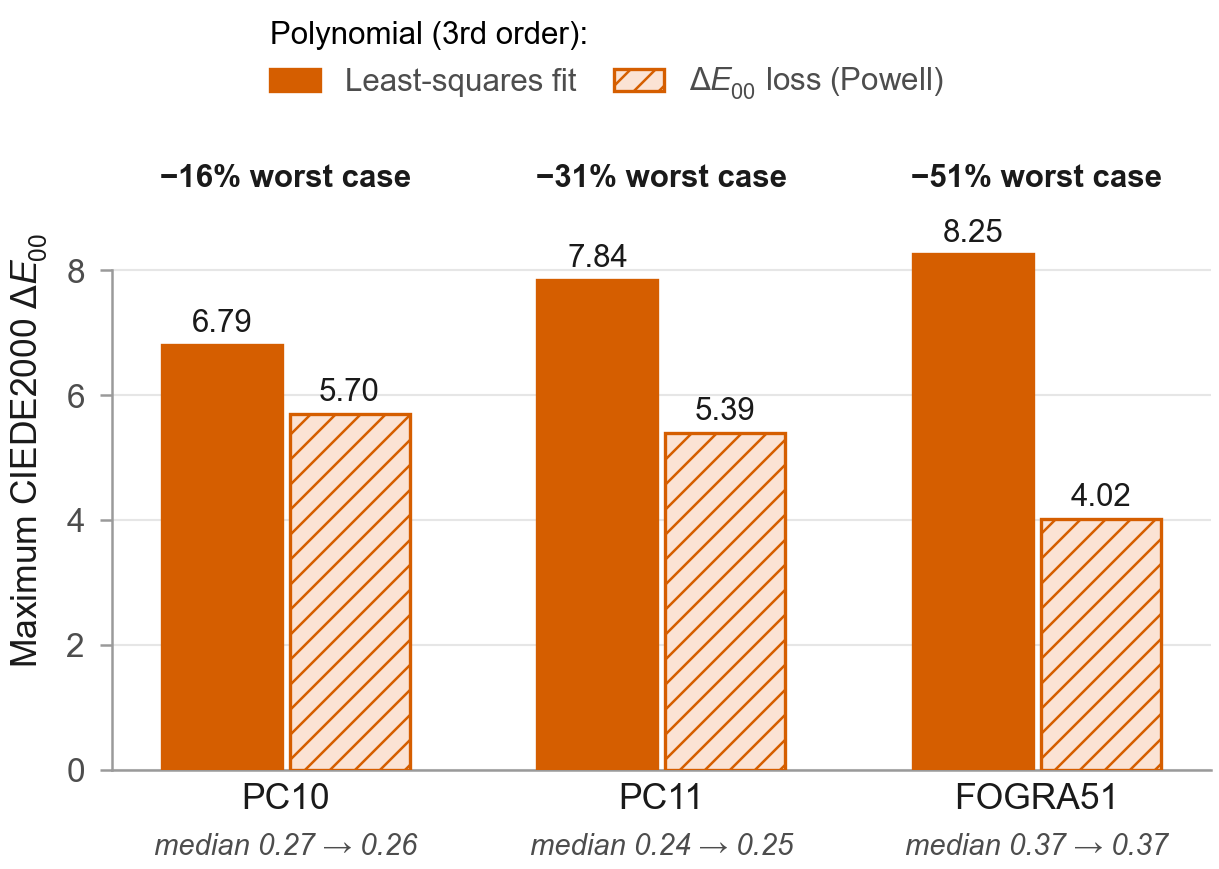
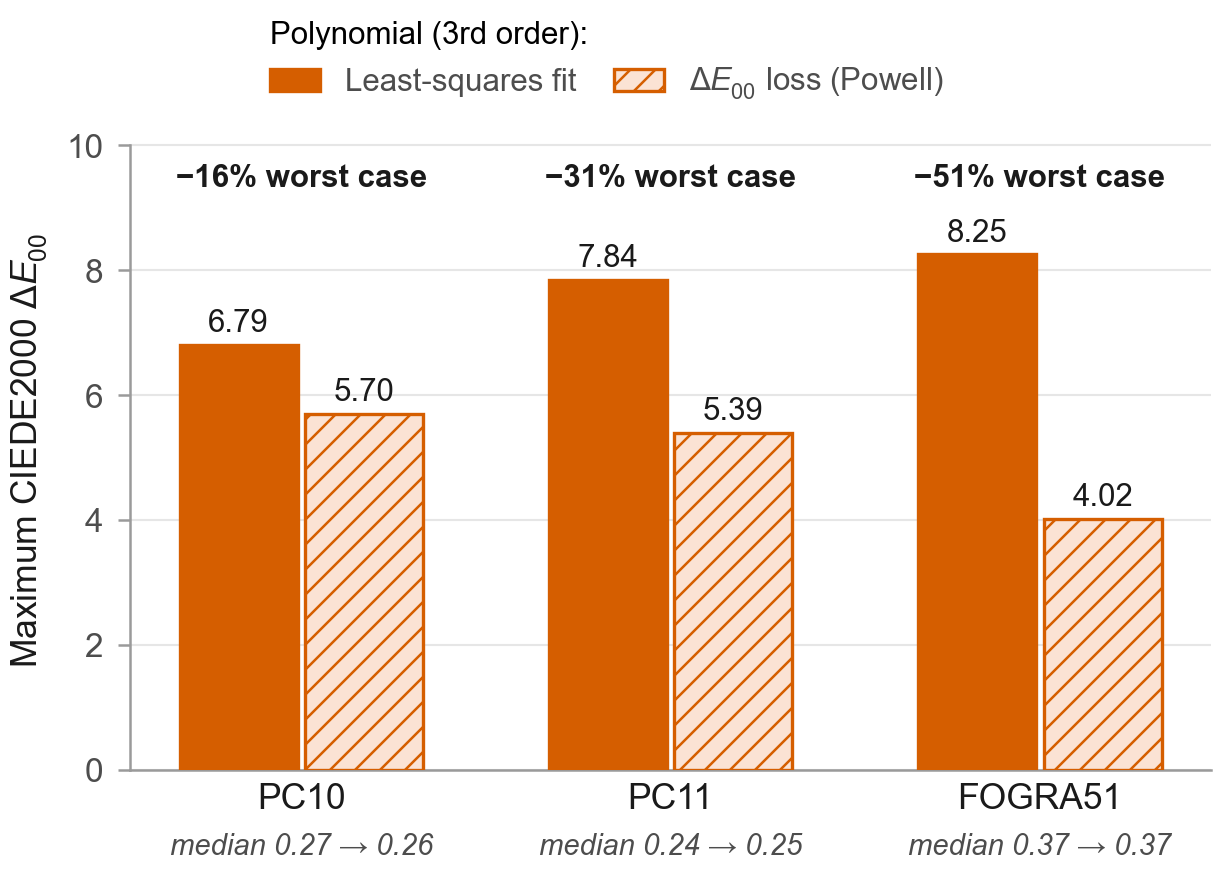
Round 2: address primary review of the experiment code
Restricted datasets' fold files carry row position and fold only (no recipe groups). Learned values count the polynomial as its coefficient matrix and no model's scalers, so poly4 is 990 everywhere. Nelder-Mead's budget-capped success flag is no longer reported as convergence. The newsprint script states that the same-title comparison is one pair. Tables keep three significant figures within the CSV's precision; the loss figure's axis follows the data; REPRODUCE.md lists every command. The discarded non-idle footprint run is removed.

diff --git a/journal/pipeline/revision_r2.py b/journal/pipeline/revision_r2.py
@@ -14,10 +14,10 @@ Starts (coefficient vector w0 handed to scipy.optimize.minimize):
   nXXsK    ols * (1 + XX/100 * N(0,1)), elementwise, noise seed K (XX in 01, 05, 10; K in 0..2)
   zero     all coefficients zero (a naive start with no least-squares information)
 
-Budgets are the paper's: Powell maxiter=200; Nelder-Mead gets exactly the objective
+Budgets are the paper's: Powell maxiter=200; Nelder-Mead gets at most the objective
 evaluations the OLS-start Powell fit used in the same fold in revision R1
 (journal/results/revision_r1/optim_folds/<dataset>__fold<i>.json), so every start
-of one fold runs Nelder-Mead on the same budget.
+of one fold runs Nelder-Mead on the same budget (scipy stops at, in practice exactly at, maxfev).
 
 Outputs under journal/results/revision_r2/seeds/:
   jobs/<dataset>__f<i>__<start>__<method>.csv   idx, de00 (that fold's test samples)
@@ -150,7 +150,9 @@ def cmd_seeds_merge(args):
                              'seconds_total': round(sum(i['seconds'] for i in infos), 1),
                              'seconds_max_fold': round(max(i['seconds'] for i in infos), 1),
                              'nfev_mean': round(float(np.mean([i['nfev'] for i in infos])), 0),
-                             'folds_converged': sum(i['success'] for i in infos),
+                             # Nelder-Mead is budget-capped by design, so its scipy 'success' flag is
+                             # not a convergence test; reported for Powell only
+                             'folds_converged': (sum(i['success'] for i in infos) if m == 'powell' else ''),
                              'train_obj_end_mean': round(float(np.mean([i['train_obj_end'] for i in infos])), 4),
                              'train_obj_ols_mean': round(float(np.mean([i['train_obj_ols'] for i in infos])), 4)})
     pd.DataFrame(rows).to_csv(OUT / 'summary.csv', index=False)
@@ -188,16 +190,18 @@ def cmd_folds(args):
         if d in PUBLIC_IDS:
             rows['SAMPLE_ID'] = df['SAMPLE_ID'].to_numpy()
         rows['fold'] = fold
-        if groups is not None:
-            rows['recipe_group'] = groups
+        if groups is not None and d in PUBLIC_IDS:
+            rows['recipe_group'] = groups   # restricted sets: row position and fold only
         pd.DataFrame(rows).to_csv(out / f'{d}.csv', index=False)
         print(f'{d:13s} n={len(X):5d} folds={np.bincount(fold).tolist()} '
               f'{"grouped" if groups is not None else "seeded KFold"}', flush=True)
 
 
 def cmd_ifra_pairs(args):
-    """Reviewer 2 point 2: what the 13 newsprint runs are, and how much of the
-    cross-run error is press-to-press difference. Uses only what the data record:
+    """Reviewer 2 point 2: what the 13 newsprint runs are, and whether the
+    cross-run error is already present in the measured data (model-free).
+    Only one title has two runs, so the same-title rows are a single pair:
+    indicative, not a category statistic. Uses only what the data record:
     the raw file headers (chart, instrument, creation date) and the file names
     (one newspaper title per run, one title, TagesA, present twice).
 
@@ -218,11 +222,11 @@ def cmd_ifra_pairs(args):
             head = z.read(name).decode('latin-1').split('BEGIN_DATA\n')[0]
             field = lambda k: (re.search(rf'^{k}\s+"?([^"\n]*)"?', head, re.M) or [None, ''])[1].strip()
             stem = name.replace('.txt', '')
+            # PRINT_CONDITIONS is empty in all 13 headers, so it is not exported
             runs.append({'run': f'IFRA-wb-{stem}-CMYK', 'title': stem.split('_')[0],
                          'created': field('CREATED').split('"')[0].strip(),
                          'instrument': field('INSTRUMENTATION'),
-                         'chart': head.splitlines()[0].strip(),
-                         'print_conditions': field('PRINT_CONDITIONS')})
+                         'chart': head.splitlines()[0].strip()})
     runs = pd.DataFrame(runs)
     runs.to_csv(out / 'runs.csv', index=False)
     title = dict(zip(runs.run, runs.title))

diff --git a/journal/pipeline/revision_r2_footprint.py b/journal/pipeline/revision_r2_footprint.py
@@ -76,12 +76,14 @@ def _strip(obj, seen=None):
     for k in ('factory', 'build', 'grid', 'inner_scores_'):
         if k in obj.__dict__:
             obj.__dict__[k] = None
-    for v in list(obj.__dict__.values()):
+    def walk(v):
         if hasattr(v, '__dict__'):
             _strip(v, seen)
         elif isinstance(v, (list, tuple)):
             for x in v:
-                _strip(x, seen)
+                walk(x)
+    for v in list(obj.__dict__.values()):
+        walk(v)
     return obj
 
 
@@ -112,7 +114,13 @@ def learned_values(model) -> int:
     from sklearn.tree import DecisionTreeRegressor
     m = model
     if isinstance(m, Pipeline):
-        return sum(learned_values(s) for _, s in m.steps)
+        steps = [s for _, s in m.steps]
+        if (len(steps) == 2 and isinstance(steps[0], PolynomialFeatures) and steps[0].include_bias
+                and isinstance(steps[1], LinearRegression)):
+            # the bias column's coefficient and the intercept are one number per channel:
+            # the deployable polynomial is the n_terms x 3 coefficient matrix
+            return int(steps[1].coef_.size)
+        return sum(learned_values(s) for s in steps)
     if isinstance(m, PolynomialFeatures):
         return 0                                   # exponents are implied by the degree
     if isinstance(m, (LinearRegression, Ridge, Lasso, ElasticNet)):
@@ -141,9 +149,8 @@ def learned_values(model) -> int:
     # repo wrappers
     for attr in ('_model', '_inner', 'estimator'):
         if getattr(m, attr, None) is not None and attr in m.__dict__:
-            inner = learned_values(m.__dict__[attr])
-            ts = m.__dict__.get('_ts')
-            return inner + (2 * ts.n_features_in_ if ts is not None else 0)
+            # input/output scalers are not counted for any model (like-for-like)
+            return learned_values(m.__dict__[attr])
     raise TypeError(f'no footprint rule for {type(m).__name__}')
 
 
@@ -244,12 +251,26 @@ def cmd_embedded(args):
     pd.DataFrame(rows).to_csv(OUT / 'poly4_embedded.csv', index=False)
 
 
+def cmd_recount(args):
+    """Refit each model once and rewrite only the learned_values column of
+    footprint.csv (a counting rule changed; timings are left as measured)."""
+    reg = {**model_registry(), **cbrt_registry(), **cbrt_tuned_registry(7)}
+    path = OUT / 'footprint.csv'
+    f = pd.read_csv(path)
+    for i, m in enumerate(f.model):
+        model, *_ = fit_model('CMYKOGV-7', m, reg)
+        f.loc[i, 'learned_values'] = learned_values(model)
+        print(m, int(f.loc[i, 'learned_values']), flush=True)
+    f.to_csv(path, index=False)
+
+
 def main():
     ap = argparse.ArgumentParser()
     ap.add_argument('--embedded', action='store_true')
+    ap.add_argument('--recount', action='store_true')
     ap.add_argument('--models', nargs='*')
     args = ap.parse_args()
-    cmd_embedded(args) if args.embedded else cmd_all(args)
+    cmd_embedded(args) if args.embedded else cmd_recount(args) if args.recount else cmd_all(args)
 
 
 if __name__ == '__main__':

diff --git a/journal/results/revision_r2/tables/table_s4_footprint.tex b/journal/results/revision_r2/tables/table_s4_footprint.tex
@@ -1,23 +1,23 @@
 \textbf{Model} & \textbf{Fit (s)} & \textbf{Predict ($\mu$s)} & \textbf{1 thread ($\mu$s)} & \textbf{$17^4$ grid (s)} & \textbf{Stored (KB)} & \textbf{Learned values} \\
 \midrule
-Polynomial (3rd order) & 0.008 & 0.431 & 0.431 & 0.012 & 4.5 & 363 \\
-Polynomial (3rd order, cbrt) & 0.007 & 0.441 & 0.432 & 0.011 & 5.0 & 363 \\
-Polynomial (4th order) & 0.021 & 0.989 & 0.94 & 0.021 & 11.1 & 993 \\
-Polynomial (4th order, cbrt) & 0.018 & 0.975 & 0.999 & 0.024 & 11.5 & 993 \\
+Polynomial (3rd order) & 0.008 & 0.431 & 0.431 & 0.012 & 4.5 & 360 \\
+Polynomial (3rd order, cbrt) & 0.007 & 0.441 & 0.432 & 0.011 & 5.0 & 360 \\
+Polynomial (4th order) & 0.021 & 0.989 & 0.940 & 0.021 & 11.1 & 990 \\
+Polynomial (4th order, cbrt) & 0.018 & 0.975 & 0.999 & 0.024 & 11.5 & 990 \\
 Gaussian Process & 69.4 & 20.7 & 18.1 & 1.04 & 31{,}460 & 20{,}009 \\
-Gaussian Process (cbrt) & 60.4 & 18.3 & 17 & 0.845 & 31{,}460 & 20{,}009 \\
-SVM & 0.28 & 25 & 25.1 & 0.556 & 86.6 & 10{,}195 \\
-SVM (cbrt, tuned) & 126 & 74.9 & 75 & 1.65 & 257 & 30{,}633 \\
+Gaussian Process (cbrt) & 60.4 & 18.3 & 17.0 & 0.845 & 31{,}460 & 20{,}009 \\
+SVM & 0.280 & 25.0 & 25.1 & 0.556 & 86.6 & 10{,}195 \\
+SVM (cbrt, tuned) & 126 & 74.9 & 75.0 & 1.65 & 257 & 30{,}627 \\
 Random Forest & 1.01 & 22.3 & 11.1 & 0.337 & 55{,}544 & 2{,}259{,}927 \\
-Random Forest (cbrt, tuned) & 12.2 & 16.7 & 9.7 & 0.388 & 57{,}375 & 2{,}334{,}532 \\
-Gradient Boosting & 4.2 & 19 & 23.1 & 0.811 & 2{,}746 & 91{,}473 \\
-Gradient Boosting (cbrt, tuned) & 31.1 & 31.5 & 32.2 & 0.414 & 22{,}202 & 774{,}269 \\
+Random Forest (cbrt, tuned) & 12.2 & 16.7 & 9.70 & 0.388 & 57{,}375 & 2{,}334{,}526 \\
+Gradient Boosting & 4.20 & 19.0 & 23.1 & 0.811 & 2{,}746 & 91{,}473 \\
+Gradient Boosting (cbrt, tuned) & 31.1 & 31.5 & 32.2 & 0.414 & 22{,}202 & 774{,}263 \\
 Decision Tree & 0.003 & 0.058 & 0.056 & 0.001 & 454 & 18{,}462 \\
 MLP (Shallow) & 0.131 & 0.074 & 0.076 & 0.006 & 17.4 & 707 \\
 MLP (Deep) & 0.351 & 0.207 & 0.199 & 0.017 & 148 & 9{,}027 \\
-MLP (Deep, cbrt, tuned) & 6.37 & 0.409 & 0.412 & 0.034 & 546 & 34{,}441 \\
+MLP (Deep, cbrt, tuned) & 6.37 & 0.409 & 0.412 & 0.034 & 546 & 34{,}435 \\
 $k$-NN & 0.001 & 6.87 & 6.91 & 0.103 & 246 & 26{,}410 \\
-$k$-NN (cbrt, tuned) & 0.164 & 6.82 & 6.84 & 0.101 & 247 & 26{,}416 \\
+$k$-NN (cbrt, tuned) & 0.164 & 6.82 & 6.84 & 0.101 & 247 & 26{,}410 \\
 Ridge & $<$0.001 & 0.008 & 0.008 & 0.001 & 0.6 & 24 \\
 Lasso & 0.001 & 0.007 & 0.007 & 0.001 & 0.7 & 24 \\
 Elastic Net & 0.001 & 0.007 & 0.007 & 0.001 & 0.7 & 24 \\

diff --git a/journal/figures/fig_de00_loss.py b/journal/figures/fig_de00_loss.py
@@ -23,6 +23,7 @@ import os
 import matplotlib
 matplotlib.use("Agg")
 import matplotlib.pyplot as plt
+import numpy as np
 import pandas as pd
 
 HERE = os.path.dirname(os.path.abspath(__file__))
@@ -110,8 +111,9 @@ def make_figure(data: pd.DataFrame, out_path: str) -> None:
     ax.tick_params(axis="x", length=0, pad=3)
     ax.set_ylabel(f"Maximum {METRIC}")
     ax.set_ylim(0, ymax * 1.24)
-    ax.set_yticks([0, 2, 4, 6, 8])
-    ax.spines["left"].set_bounds(0, 8)
+    top = 2 * int(np.ceil(ymax / 2))          # even tick at or above the tallest bar
+    ax.set_yticks(np.arange(0, top + 1, 2))
+    ax.spines["left"].set_bounds(0, top)
     ax.grid(axis="y")
 
     # Legend above the axes, outside the data, so it never meets the

diff --git a/journal/pipeline/revision_r2_tables.py b/journal/pipeline/revision_r2_tables.py
@@ -27,10 +27,10 @@ def sig3(x):
     """Three significant figures, as the R1 timing table (no scientific notation)."""
     if x < 0.001:
         return '$<$0.001'
-    s = f'{x:.3g}'
-    if 'e' in s:
-        s = f'{x:.0f}'
-    return s
+    # three significant figures, but never more than the CSV's three decimals
+    import math
+    decimals = min(3, max(0, 2 - math.floor(math.log10(x))))
+    return f'{x:.{decimals}f}'
 
 
 def thousands(x):

diff --git a/journal/results/revision_r2/tables/timing_footprint_columns.tex b/journal/results/revision_r2/tables/timing_footprint_columns.tex
@@ -1,6 +1,6 @@
-Polynomial (3rd order) & 4.5 & 363 \\
-Polynomial (4th order) & 11.1 & 993 \\
-Polynomial (4th order, cbrt) & 11.5 & 993 \\
+Polynomial (3rd order) & 4.5 & 360 \\
+Polynomial (4th order) & 11.1 & 990 \\
+Polynomial (4th order, cbrt) & 11.5 & 990 \\
 Gaussian Process & 31{,}460 & 20{,}009 \\
 Gaussian Process (cbrt) & 31{,}460 & 20{,}009 \\
 SVM & 86.6 & 10{,}195 \\

diff --git a/journal/REPRODUCE.md b/journal/REPRODUCE.md
@@ -31,22 +31,42 @@ scripts for the sets that need conversion (`journal.pipeline.ingest_ncolor`,
 | Median, 95th percentile, maximum | `journal/pipeline/evaluate.py`, `summarize` |
 
 The exact fold of every analyzed row is published in `journal/results/revision_r2/folds/`
-(`idx` = row position after filtering and deduplication, `fold`, and `recipe_group` for the
-grouped sets; `SAMPLE_ID` for the publicly available datasets). Regenerate and check with
-`python -m journal.pipeline.revision_r2 folds`.
+(`idx` = row position after filtering and deduplication, and `fold`; for the publicly available
+datasets also `SAMPLE_ID`, and `recipe_group` where folds are grouped). Regenerate them with
+`python -m journal.pipeline.revision_r2 folds`, which asserts that its rows match the dataset loader.
 
 ## 4. Rerunning the experiments
 
 ```
-python -m journal.pipeline.run                       # main model matrix, per dataset
-python -m journal.pipeline.run_ifra                  # newsprint experiments
-python -m journal.pipeline.revision_r1 --help        # round-1 revision experiments
-python -m journal.pipeline.revision_r1_timing        # fit / predict / LUT timing (idle machine)
-python -m journal.pipeline.revision_r2 --help        # round-2: optimizer start-point sensitivity
-python -m journal.pipeline.revision_r2_footprint     # round-2: memory footprint and latency
+python -m journal.pipeline.run                         # main model matrix, per dataset
+python -m journal.pipeline.run_ifra                    # newsprint experiments
+python -m journal.pipeline.revision_r1 --help          # round-1 revision experiments
+python -m journal.pipeline.revision_r1_timing          # Table 12 timing (idle machine)
+
+# round 2 (Reviewer 2)
+python -m journal.pipeline.revision_r2 folds           # fold assignment files (section 3)
+python -m journal.pipeline.revision_r2 ifra-pairs      # newsprint run metadata, model-free run comparison
+python -m journal.pipeline.revision_r2 optim-cost      # convergence and cost of the direct-DE00 fits
+python -m journal.pipeline.revision_r2 jobs            # the 990 start-point jobs, one per line
+python -m journal.pipeline.revision_r2 seeds --dataset PC10-CMY --fold 0 --start ols --method powell
+python -m journal.pipeline.revision_r2 seeds-merge     # pool the jobs into seeds/summary.csv
+python -m journal.pipeline.revision_r2_footprint       # memory footprint and latency (idle machine)
+python -m journal.pipeline.revision_r2_footprint --embedded   # degree-4 polynomial as a bare matrix
+python -m journal.pipeline.revision_r2_tables          # LaTeX tables from the round-2 CSVs
+cd journal/figures && python fig_de00_loss.py          # likewise the other figure scripts
 ```
+
+`seeds` writes to `journal/results/revision_r2/seeds/`; set `R2_SEEDS_DIR=seeds_laptop` to write
+elsewhere (the six coated datasets were run on the laptop, the canonical platform, into
+`seeds_laptop/`; the full sweep ran on a second machine into `seeds/`). Timings are
+machine-specific; everything else reproduces to the precision reported, with platform drift of up
+to about 0.2 ΔE00 for iteratively fitted models (see the paper's Reproducibility paragraph).
+
+The KCMYG-5 and CMYKOGB-7 experiments need the restricted datasets, so they can only be rerun
+with the providers' permission. Their per-row outputs here contain row positions, folds and errors
+only.
 
 Per-sample ΔE00 for every (dataset, model) pair is in `journal/results/revision_r1/persample/`
 and the one-row summaries in `journal/results/revision_r1/summary/`; round-2 outputs are in
 `journal/results/revision_r2/`. Figures are generated from these CSVs by the scripts in
-`journal/figures/`.
+`journal/figures/` (they use Arial; matplotlib falls back to its default font where it is absent).
